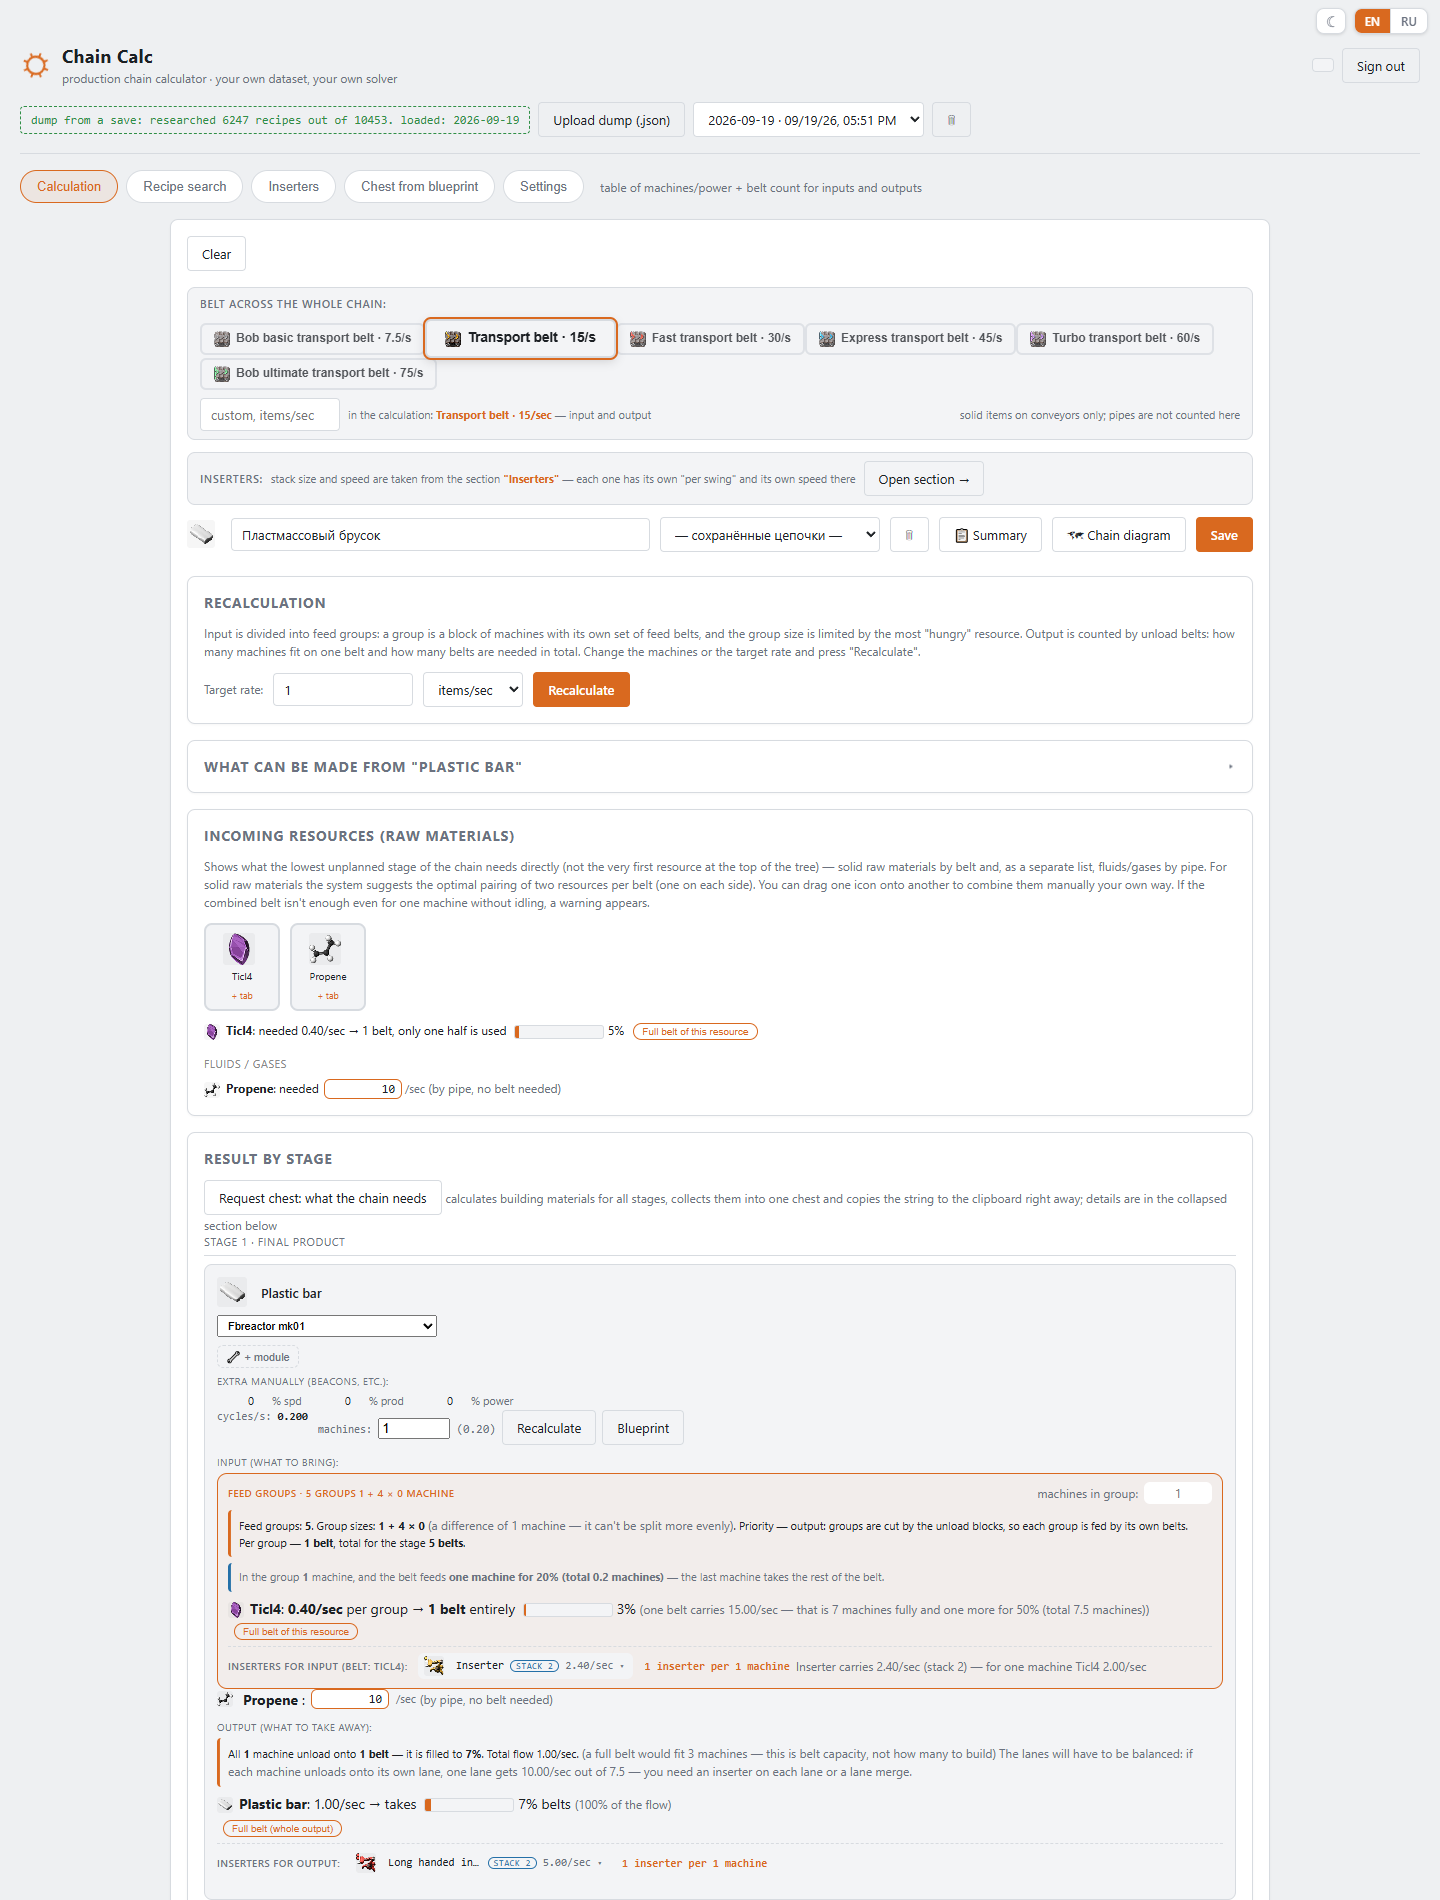
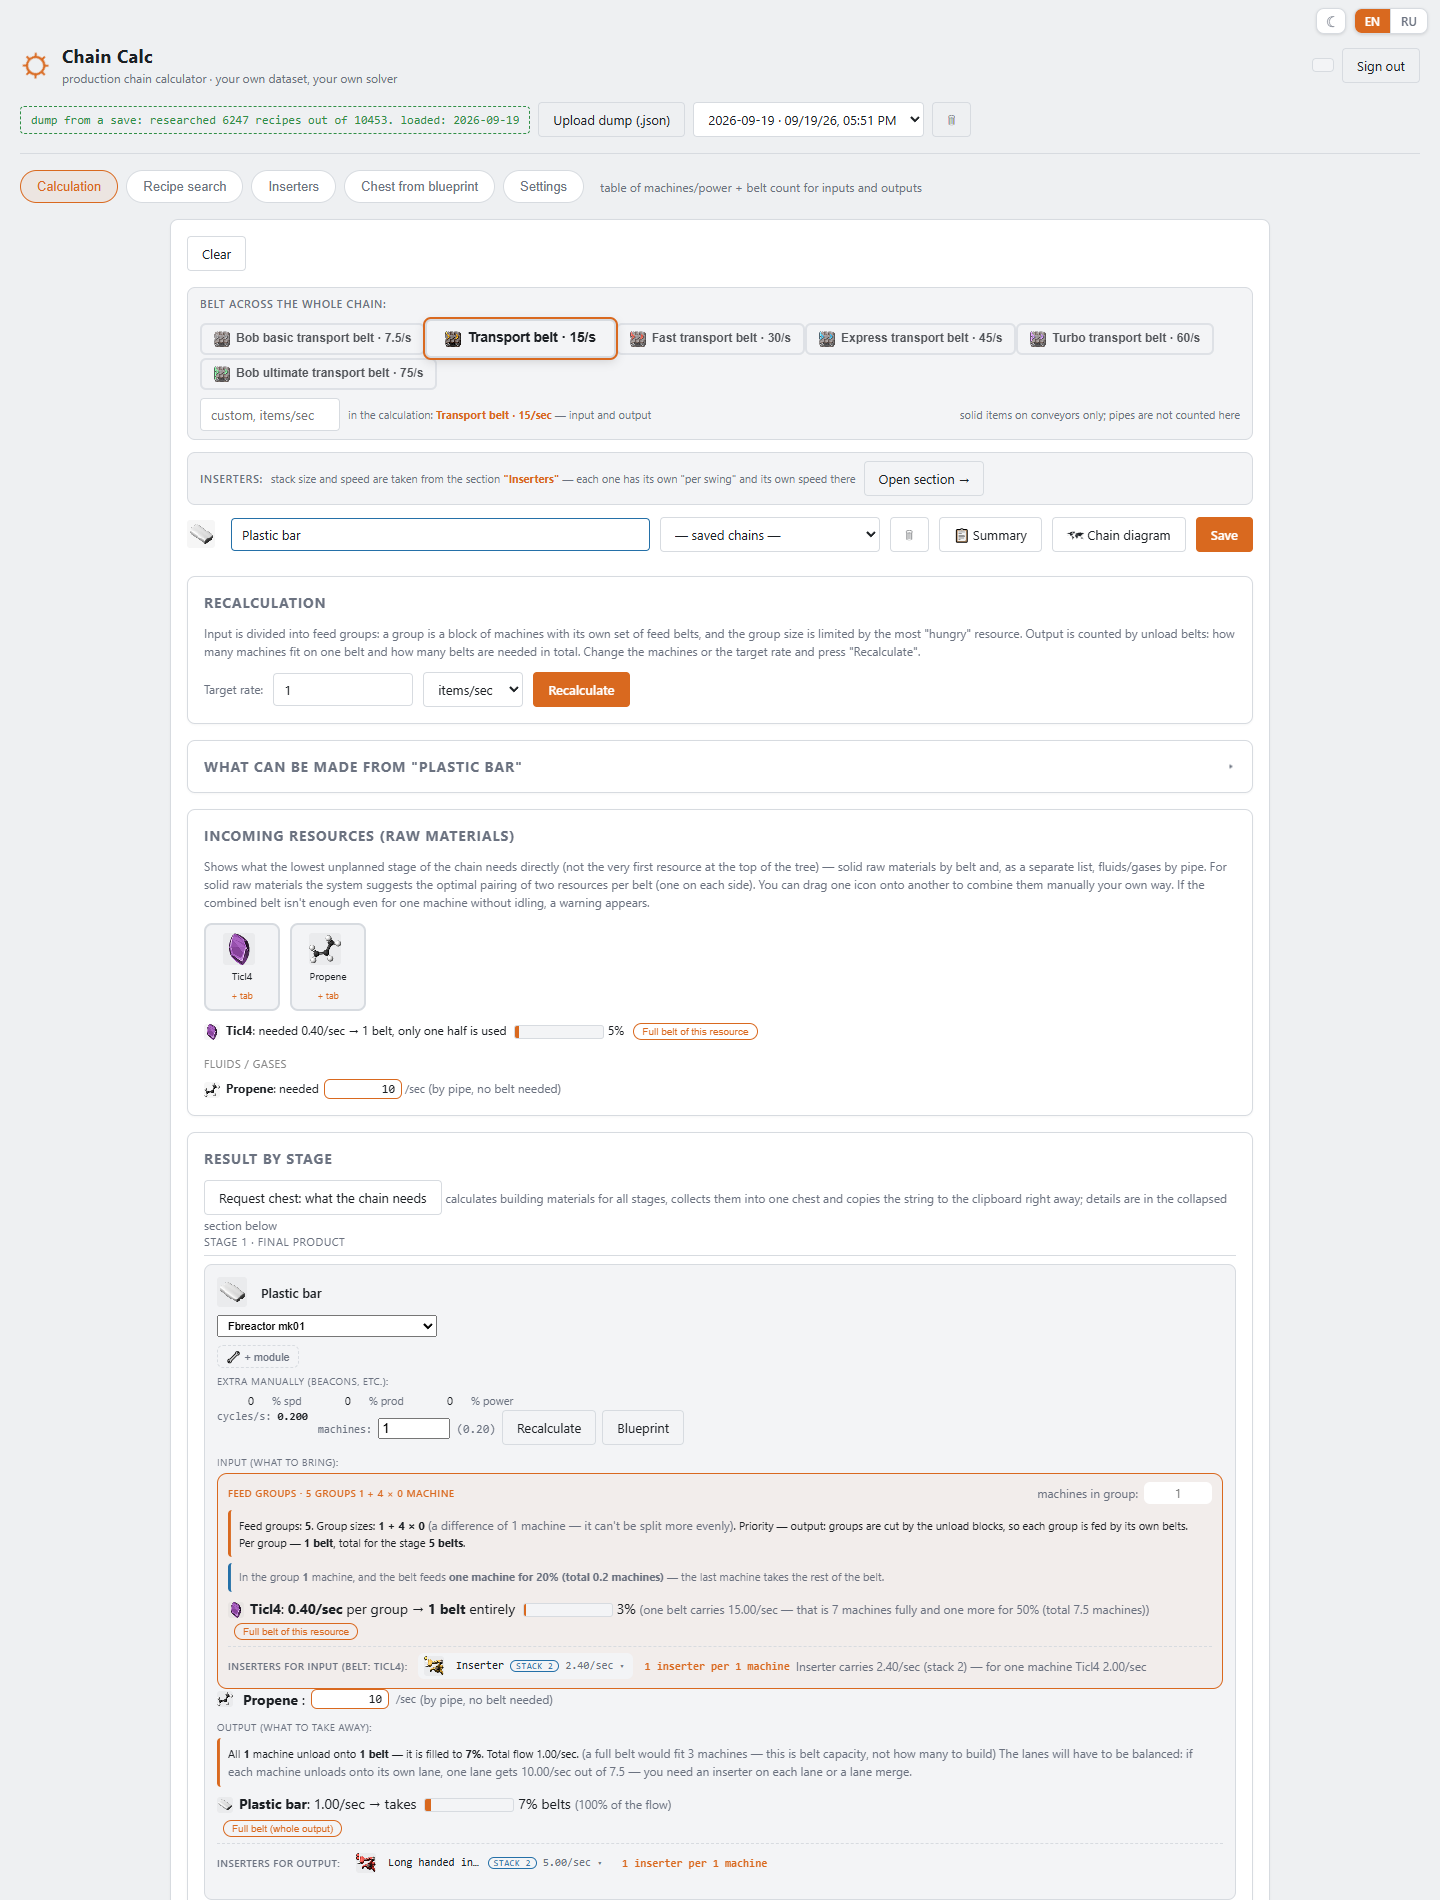
Translate the saved-chains placeholder in the English UI; redo English screenshots

diff --git a/public/js/app.js b/public/js/app.js
@@ -10683,7 +10683,7 @@
     const current = sel.value;
     // newest first
     const sorted = list.sort((a, b) => (b.updated_at || 0) - (a.updated_at || 0));
-    sel.innerHTML = `<option value="">— сохранённые цепочки${
+    sel.innerHTML = `<option value="" data-i18n-ui>— сохранённые цепочки${
       sorted.length > SAVED_CHAINS_LIMIT ? ` (последние ${SAVED_CHAINS_LIMIT} из ${sorted.length})` : ""
     } —</option>`;
     const shown = sorted.slice(0, SAVED_CHAINS_LIMIT);

diff --git a/public/js/i18n.js b/public/js/i18n.js
@@ -220,6 +220,7 @@
 
   // Names typed by the user (saved chains list) are data, not interface: leave them alone.
   function isUserData(el) {
+    if (el.closest && el.closest("[data-i18n-ui]")) return false;   // подпись-заглушка в списке: это интерфейс
     return !!(el.closest && el.closest("#savedChainsSelect, [data-no-i18n]"));
   }
 
